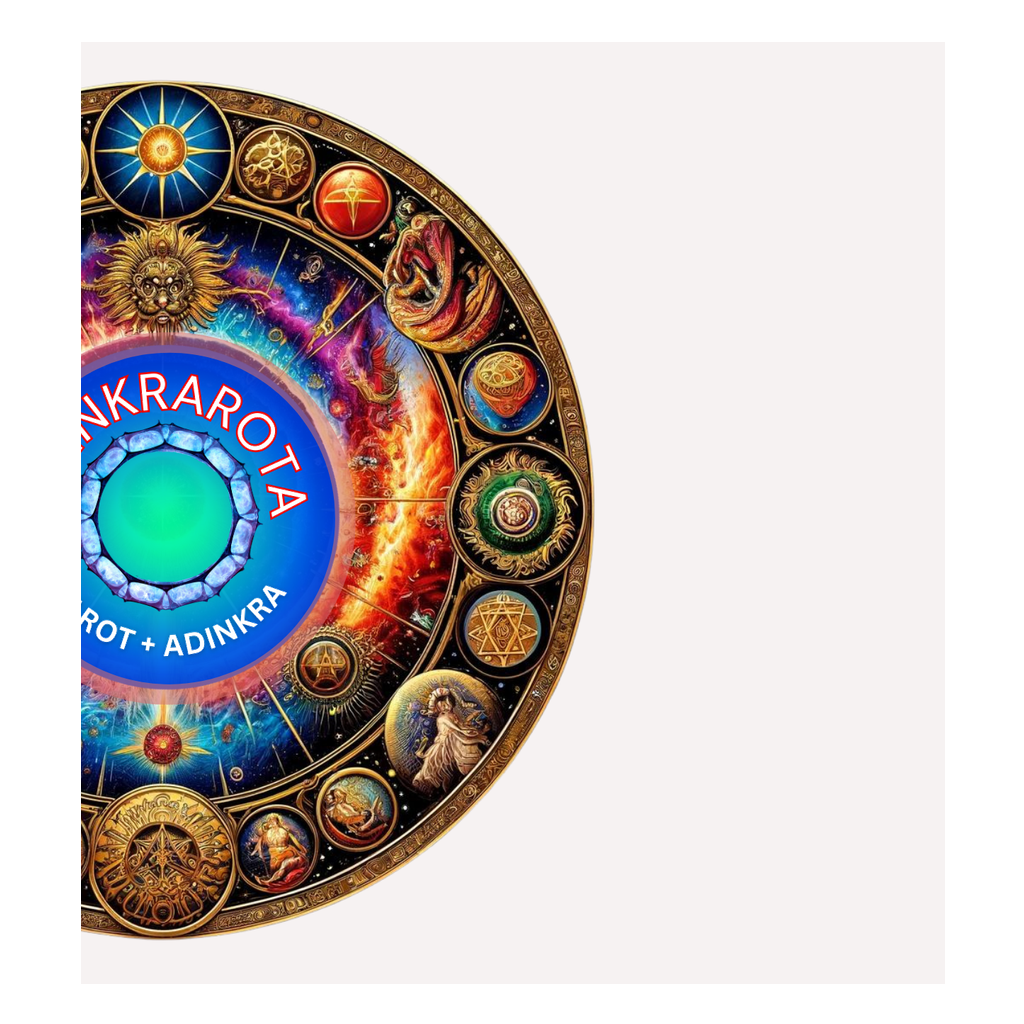
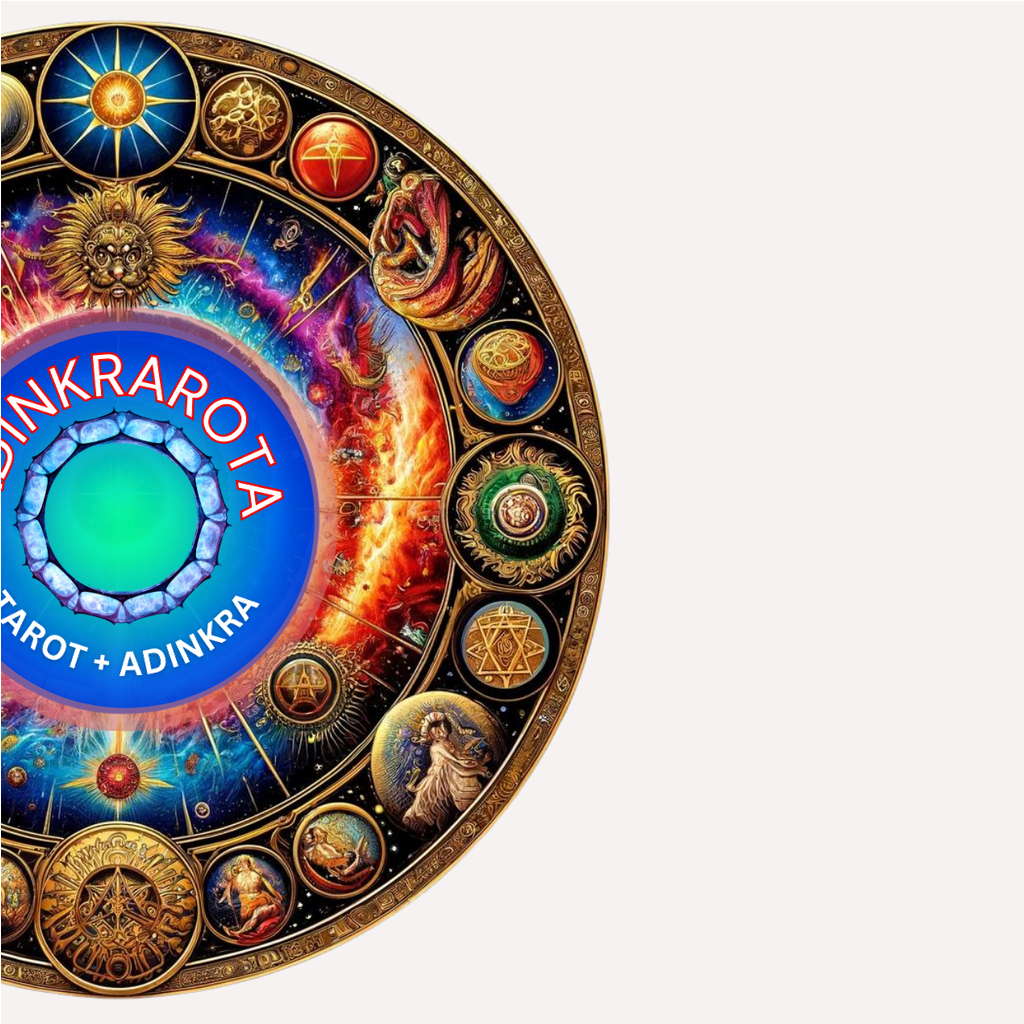
Rotate hero wheels around image hub center, not frame center

diff --git a/components/hero-section.tsx b/components/hero-section.tsx
@@ -167,7 +167,7 @@ export function HeroSection({ onExplore, onReading, onSpinCycle }: HeroSectionPr
               transition={{ duration: 3, repeat: Infinity, ease: "easeInOut", delay: 1 }}
             />
             
-            {/* Levitating Portal Wheels — both layers anchored to the same center point */}
+            {/* Both wheels share one image-space origin (hub at PNG center), not separate frames */}
             <motion.div
               className="absolute inset-0 overflow-hidden rounded-full"
               animate={{ y: [-6, 6, -6] }}
@@ -177,44 +177,46 @@ export function HeroSection({ onExplore, onReading, onSpinCycle }: HeroSectionPr
               }}
             >
               {/* Back wheel — 33% larger, clockwise */}
-              <div className="absolute inset-0 flex items-center justify-center">
-                <motion.div
-                  className="relative aspect-square w-[133%] max-w-none shrink-0"
-                  style={{ originX: "50%", originY: "50%" }}
-                  animate={{ rotate: 360 }}
-                  transition={{ duration: 90, repeat: Infinity, ease: "linear" }}
-                >
-                  <Image
-                    src="/images/portal-wheel-circle.png"
-                    alt=""
-                    fill
-                    className="object-contain object-center"
-                    aria-hidden
-                  />
-                </motion.div>
-              </div>
+              <motion.div
+                className="absolute inset-0"
+                style={{ originX: "50%", originY: "50%" }}
+                animate={{ rotate: 360, scale: 1.33 }}
+                transition={{
+                  rotate: { duration: 90, repeat: Infinity, ease: "linear" },
+                  scale: { duration: 0 },
+                }}
+              >
+                <Image
+                  src="/images/portal-wheel-circle.png"
+                  alt=""
+                  fill
+                  className="object-contain object-center"
+                  aria-hidden
+                />
+              </motion.div>
 
               {/* Front wheel — smaller, see-through, counter-clockwise */}
-              <div className="absolute inset-0 flex items-center justify-center">
-                <motion.div
-                  className="relative aspect-square w-[82%] max-w-none shrink-0 opacity-70"
-                  style={{
-                    originX: "50%",
-                    originY: "50%",
-                    filter: "drop-shadow(0 0 24px rgba(233, 30, 140, 0.25)) drop-shadow(0 0 48px rgba(0, 184, 148, 0.15))",
-                  }}
-                  animate={{ rotate: -360 }}
-                  transition={{ duration: 60, repeat: Infinity, ease: "linear" }}
-                >
-                  <Image
-                    src="/images/portal-wheel-circle.png"
-                    alt="ADINKRAROTA - Tarot + Adinkra Portal"
-                    fill
-                    className="object-contain object-center"
-                    priority
-                  />
-                </motion.div>
-              </div>
+              <motion.div
+                className="absolute inset-0 opacity-70"
+                style={{
+                  originX: "50%",
+                  originY: "50%",
+                  filter: "drop-shadow(0 0 24px rgba(233, 30, 140, 0.25)) drop-shadow(0 0 48px rgba(0, 184, 148, 0.15))",
+                }}
+                animate={{ rotate: -360, scale: 0.82 }}
+                transition={{
+                  rotate: { duration: 60, repeat: Infinity, ease: "linear" },
+                  scale: { duration: 0 },
+                }}
+              >
+                <Image
+                  src="/images/portal-wheel-circle.png"
+                  alt="ADINKRAROTA - Tarot + Adinkra Portal"
+                  fill
+                  className="object-contain object-center"
+                  priority
+                />
+              </motion.div>
             </motion.div>
           </motion.div>
         </FloatingElement>
